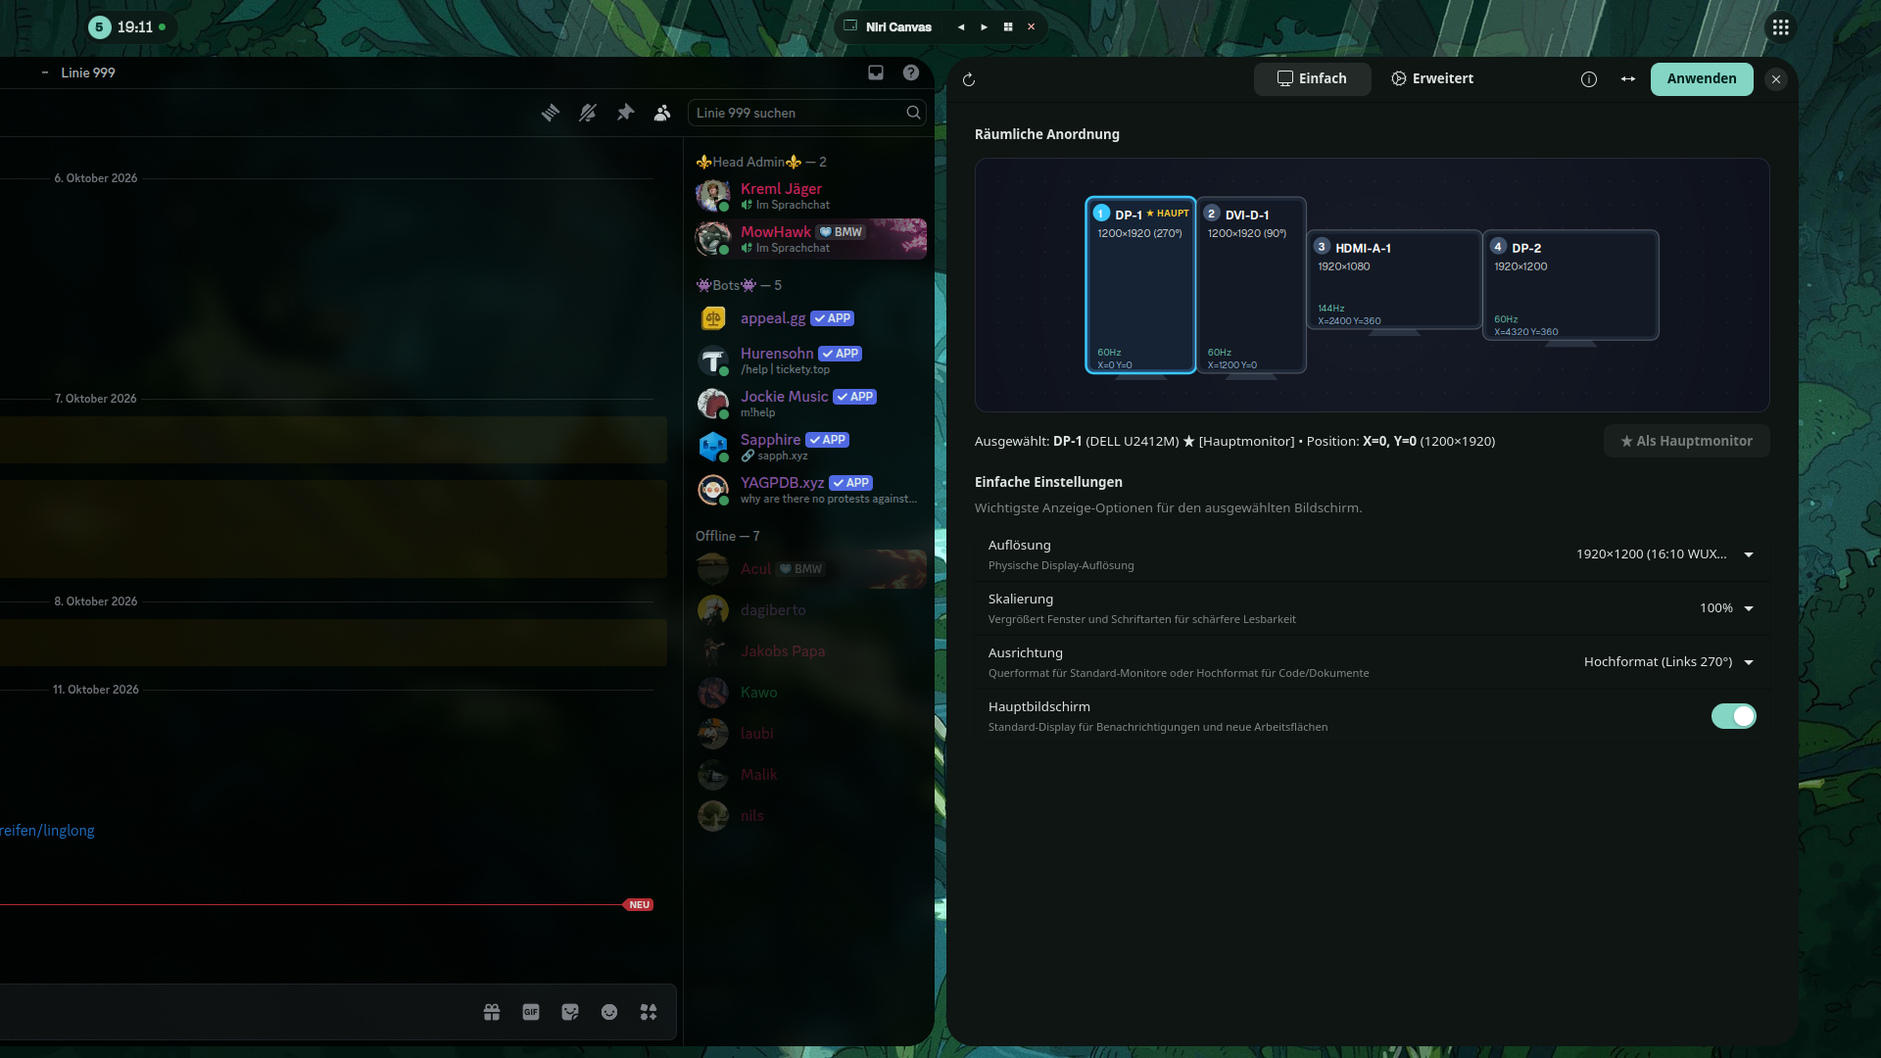
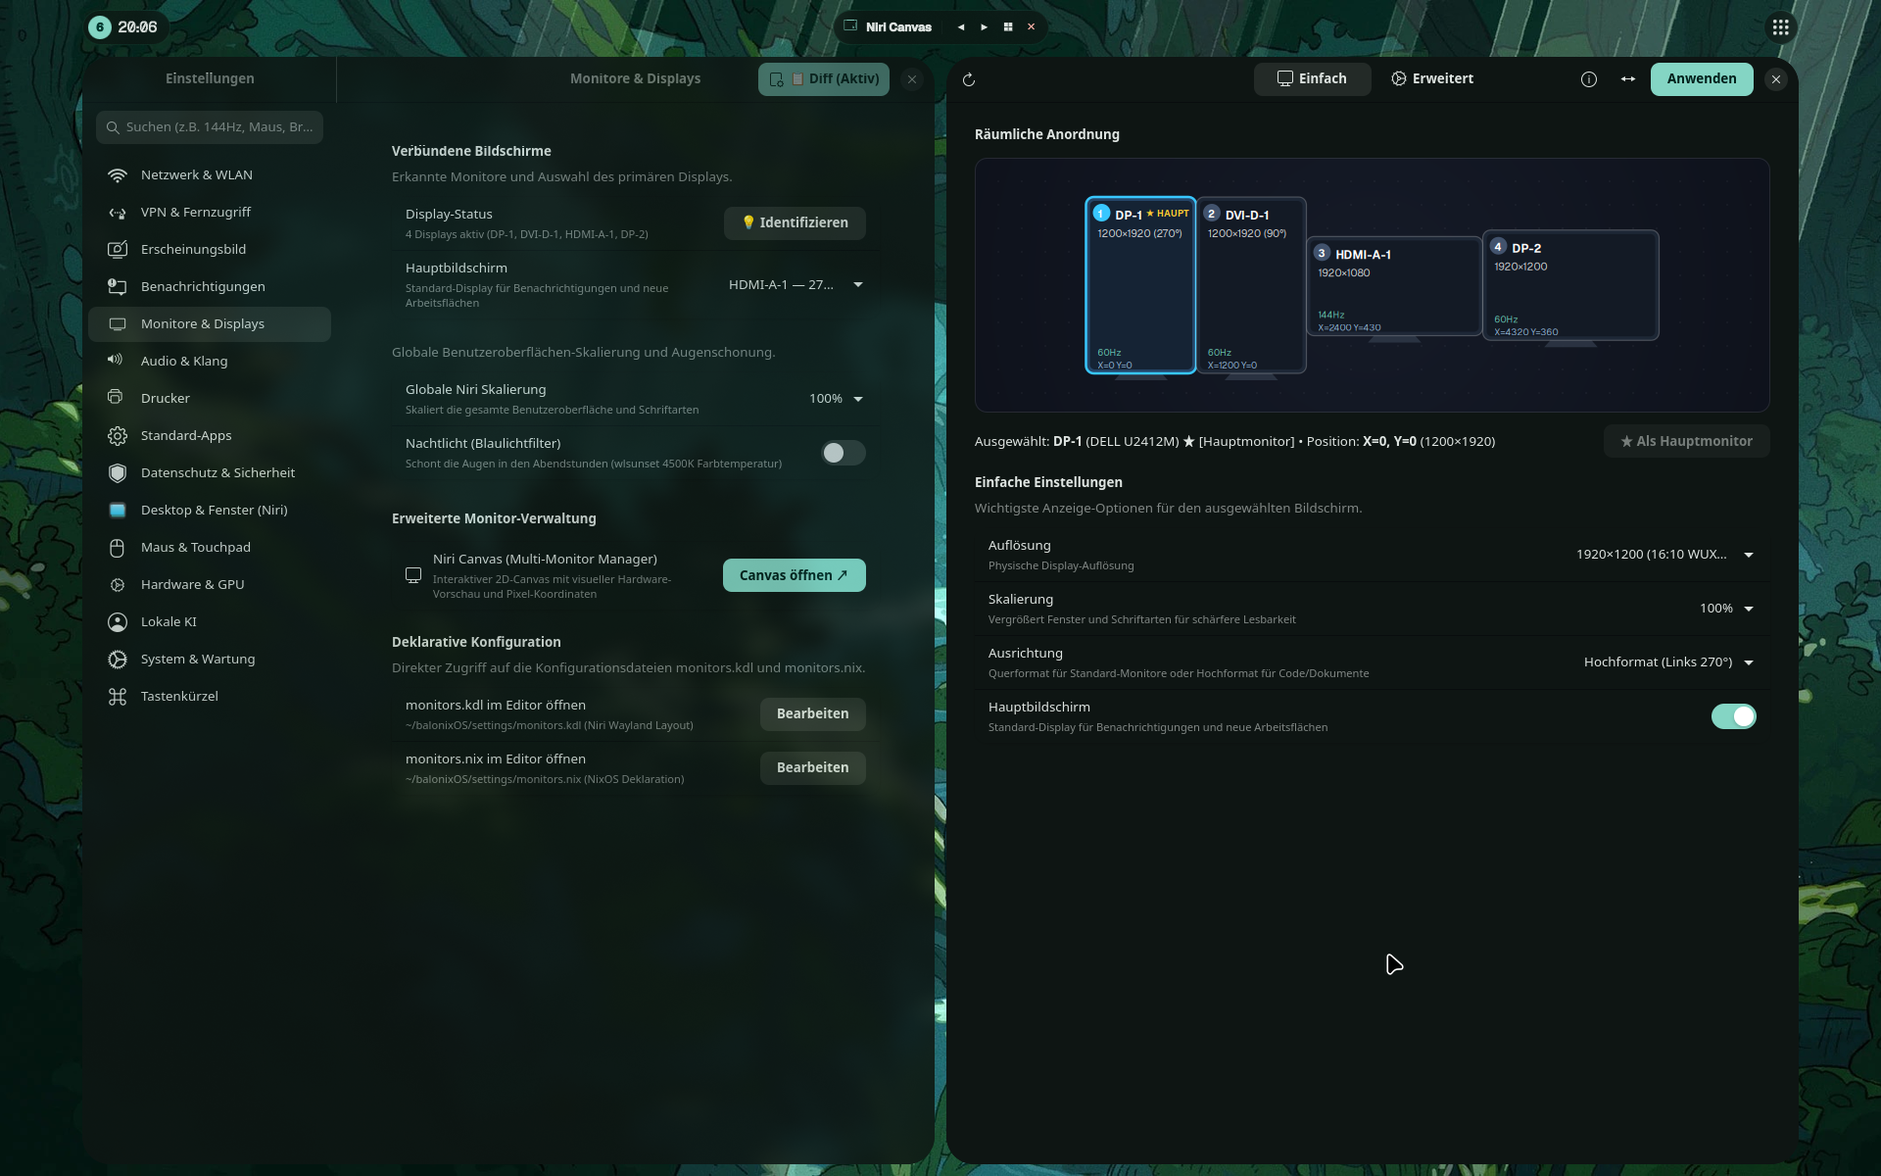
feat(i18n): localize entire UI, CLI, and canvas to English; update screenshot

diff --git a/src/niri_canvas/ui.py b/src/niri_canvas/ui.py
@@ -56,24 +56,24 @@ class NiriCanvasWindow(Adw.ApplicationWindow):
 
         # Left Header: Refresh
         self.refresh_btn = Gtk.Button.new_from_icon_name("view-refresh-symbolic")
-        self.refresh_btn.set_tooltip_text("Hardware neu einlesen & Änderungen verwerfen")
+        self.refresh_btn.set_tooltip_text("Reload hardware & discard changes")
         self.refresh_btn.connect("clicked", self.on_refresh_clicked)
         header.pack_start(self.refresh_btn)
 
         # Right Header: Apply (suggested-action), Align, Identify
-        self.apply_btn = Gtk.Button(label="Anwenden")
-        self.apply_btn.set_tooltip_text("Layout in KDL speichern & Niri live aktualisieren")
+        self.apply_btn = Gtk.Button(label="Apply")
+        self.apply_btn.set_tooltip_text("Save layout to KDL & reload Niri live")
         self.apply_btn.add_css_class("suggested-action")
         self.apply_btn.connect("clicked", self.on_apply_clicked)
         header.pack_end(self.apply_btn)
 
         self.align_btn = Gtk.Button.new_from_icon_name("object-flip-horizontal-symbolic")
-        self.align_btn.set_tooltip_text("Monitore automatisch lückenlos anordnen")
+        self.align_btn.set_tooltip_text("Auto-align monitors side-by-side")
         self.align_btn.connect("clicked", self.on_align_clicked)
         header.pack_end(self.align_btn)
 
         self.identify_btn = Gtk.Button.new_from_icon_name("dialog-information-symbolic")
-        self.identify_btn.set_tooltip_text("Displays identifizieren (Nummern & Ports anzeigen)")
+        self.identify_btn.set_tooltip_text("Identify displays (show OSD popups)")
         self.identify_btn.connect("clicked", self.on_identify_clicked)
         header.pack_end(self.identify_btn)
 
@@ -101,8 +101,8 @@ class NiriCanvasWindow(Adw.ApplicationWindow):
 
         # ── 1. Interactive Canvas Group ───────────────────────────────────────
         canvas_group = Adw.PreferencesGroup()
-        canvas_group.set_title("Räumliche Anordnung")
-        canvas_group.set_description("Monitore per Drag & Drop verschieben. Kanten docken magnetisch aneinander an.")
+        canvas_group.set_title("Spatial Arrangement")
+        canvas_group.set_description("Drag & drop displays to arrange. Edges snap magnetically to prevent gaps.")
 
         canvas_card = Gtk.Box(orientation=Gtk.Orientation.VERTICAL, spacing=8)
         self.canvas = MonitorCanvas(
@@ -115,12 +115,12 @@ class NiriCanvasWindow(Adw.ApplicationWindow):
         sub_bar = Gtk.Box(orientation=Gtk.Orientation.HORIZONTAL, spacing=10)
         sub_bar.set_margin_top(4)
 
-        self.selection_label = Gtk.Label(label="Wähle einen Monitor auf dem Canvas...", xalign=0)
+        self.selection_label = Gtk.Label(label="Select a display on the canvas...", xalign=0)
         self.selection_label.set_hexpand(True)
         sub_bar.append(self.selection_label)
 
-        self.primary_btn = Gtk.Button(label="★ Als Hauptmonitor")
-        self.primary_btn.set_tooltip_text("Ausgewählten Monitor als Hauptbildschirm markieren")
+        self.primary_btn = Gtk.Button(label="★ Set as Primary")
+        self.primary_btn.set_tooltip_text("Set selected display as primary monitor")
         self.primary_btn.connect("clicked", self.on_make_primary_clicked)
         sub_bar.append(self.primary_btn)
 
@@ -130,46 +130,46 @@ class NiriCanvasWindow(Adw.ApplicationWindow):
 
         # ── 2. Simple Controls Group ──────────────────────────────────────────
         self.simple_group = Adw.PreferencesGroup()
-        self.simple_group.set_title("Einfache Einstellungen")
-        self.simple_group.set_description("Wichtigste Anzeige-Optionen für den ausgewählten Bildschirm.")
+        self.simple_group.set_title("Display Settings")
+        self.simple_group.set_description("Essential display options for the selected screen.")
 
         # Auflösung (Sauber gruppiert nach gängigen Auflösungen)
         self.res_row = Adw.ComboRow()
-        self.res_row.set_title("Auflösung")
-        self.res_row.set_subtitle("Physische Display-Auflösung")
+        self.res_row.set_title("Resolution")
+        self.res_row.set_subtitle("Physical display resolution")
         self.res_row.connect("notify::selected", self.on_simple_res_selected)
         self.simple_group.add(self.res_row)
 
         # Skalierung
         self.scale_options = ["100%", "125%", "150%", "175%", "200%"]
         self.scale_row = Adw.ComboRow()
-        self.scale_row.set_title("Skalierung")
-        self.scale_row.set_subtitle("Vergrößert Fenster und Schriftarten für schärfere Lesbarkeit")
+        self.scale_row.set_title("Scaling")
+        self.scale_row.set_subtitle("Scale window contents and text for sharper readability")
         self.scale_row.set_model(Gtk.StringList.new(self.scale_options))
         self.scale_row.connect("notify::selected", self.on_scale_selected)
         self.simple_group.add(self.scale_row)
 
         # Ausrichtung (Einfach: Querformat vs. Hochformat)
-        self.orient_options = ["Querformat (Normal 0°)", "Hochformat (Rechts 90°)", "Hochformat (Links 270°)"]
+        self.orient_options = ["Landscape (Normal 0°)", "Portrait (Right 90°)", "Portrait (Left 270°)"]
         self.orient_values = ["Normal", "90", "270"]
         self.orient_row = Adw.ComboRow()
-        self.orient_row.set_title("Ausrichtung")
-        self.orient_row.set_subtitle("Querformat für Standard-Monitore oder Hochformat für Code/Dokumente")
+        self.orient_row.set_title("Orientation")
+        self.orient_row.set_subtitle("Landscape for standard monitors or portrait for code and documents")
         self.orient_row.set_model(Gtk.StringList.new(self.orient_options))
         self.orient_row.connect("notify::selected", self.on_orient_selected)
         self.simple_group.add(self.orient_row)
 
         # Hauptmonitor-Schalter
         self.primary_switch = Adw.SwitchRow()
-        self.primary_switch.set_title("Hauptbildschirm")
-        self.primary_switch.set_subtitle("Standard-Display für Benachrichtigungen und neue Arbeitsflächen")
+        self.primary_switch.set_title("Primary Display")
+        self.primary_switch.set_subtitle("Default display for notifications and new workspaces")
         self.primary_switch.connect("notify::active", self.on_primary_switch_toggled)
         self.simple_group.add(self.primary_switch)
 
         simple_content.append(self.simple_group)
 
         # Add Tab 1 to ViewStack
-        page_simple = self.view_stack.add_titled(scrolled_simple, "simple", "Einfach")
+        page_simple = self.view_stack.add_titled(scrolled_simple, "simple", "Simple")
         page_simple.set_icon_name("video-display-symbolic")
 
         # ══════════════════════════════════════════════════════════════════════
@@ -193,12 +193,12 @@ class NiriCanvasWindow(Adw.ApplicationWindow):
 
         # ── 1. Exakte Geometrie & Positionierung ──────────────────────────────
         geo_group = Adw.PreferencesGroup()
-        geo_group.set_title("Pixel-genaue Platzierung")
-        geo_group.set_description("Direkte Koordinaten-Steuerung im logischen Wayland-Desktop-Raum.")
+        geo_group.set_title("Pixel-Perfect Coordinates")
+        geo_group.set_description("Direct coordinate placement in logical Wayland desktop space.")
 
         pos_row = Adw.ActionRow()
-        pos_row.set_title("Logische Koordinaten (X / Y)")
-        pos_row.set_subtitle("Manuelle Feinjustierung verhindert unabsichtliche Lücken oder Kanten-Sprünge")
+        pos_row.set_title("Logical Position (X / Y)")
+        pos_row.set_subtitle("Manual fine-tuning prevents gaps or cursor trapping")
 
         coords_box = Gtk.Box(orientation=Gtk.Orientation.HORIZONTAL, spacing=8)
         coords_box.set_valign(Gtk.Align.CENTER)
@@ -219,11 +219,11 @@ class NiriCanvasWindow(Adw.ApplicationWindow):
         geo_group.add(pos_row)
 
         # Erweiterte Drehung (inklusive 180° Überkopf)
-        self.adv_tf_options = ["Normal (0°)", "90° (Rechts)", "180° (Überkopf)", "270° (Links)"]
+        self.adv_tf_options = ["Normal (0°)", "90° (Right)", "180° (Inverted)", "270° (Left)"]
         self.adv_tf_values = ["Normal", "90", "180", "270"]
         self.adv_tf_row = Adw.ComboRow()
-        self.adv_tf_row.set_title("Erweiterte Rotation & Invertierung")
-        self.adv_tf_row.set_subtitle("Ermöglicht auch 180° Überkopf-Montage für Monitorarme")
+        self.adv_tf_row.set_title("Advanced Rotation & Invert")
+        self.adv_tf_row.set_subtitle("Supports 180° ceiling or custom arm mount orientation")
         self.adv_tf_row.set_model(Gtk.StringList.new(self.adv_tf_options))
         self.adv_tf_row.connect("notify::selected", self.on_adv_tf_selected)
         geo_group.add(self.adv_tf_row)
@@ -232,18 +232,18 @@ class NiriCanvasWindow(Adw.ApplicationWindow):
 
         # ── 2. Detaillierte Hardware-Modi & Hertz ─────────────────────────────
         rate_group = Adw.PreferencesGroup()
-        rate_group.set_title("Exakte Bildwiederholraten & Timings")
-        rate_group.set_description("Alle nativen Hardware-Modi inklusive Dezimal-Frequenzen.")
+        rate_group.set_title("Refresh Rates & Timings")
+        rate_group.set_description("Native hardware video modes including exact fractional refresh rates.")
 
         self.exact_mode_row = Adw.ComboRow()
-        self.exact_mode_row.set_title("Hardware-Timing Modus")
-        self.exact_mode_row.set_subtitle("Exakter Niri Mode-String mit Millihertz-Genauigkeit")
+        self.exact_mode_row.set_title("Hardware Video Mode")
+        self.exact_mode_row.set_subtitle("Exact Niri mode string with millihertz precision")
         self.exact_mode_row.connect("notify::selected", self.on_exact_mode_selected)
         rate_group.add(self.exact_mode_row)
 
         # Hardware Info Row
         self.hw_info_row = Adw.ActionRow()
-        self.hw_info_row.set_title("Display-Hardware")
+        self.hw_info_row.set_title("Hardware Details")
         self.hw_info_badge = Gtk.Label(label="--", css_classes=["caption", "dim-label"])
         self.hw_info_row.add_suffix(self.hw_info_badge)
         rate_group.add(self.hw_info_row)
@@ -252,14 +252,14 @@ class NiriCanvasWindow(Adw.ApplicationWindow):
 
         # ── 3. Niri KDL-Konfiguration & Quelldatei ─────────────────────────────
         kdl_group = Adw.PreferencesGroup()
-        kdl_group.set_title("Deklarative Niri KDL-Konfiguration")
+        kdl_group.set_title("Declarative Niri KDL Configuration")
         target_path = find_config_file(self.custom_config)
-        kdl_group.set_description(f"Ziel-Datei: {target_path}")
+        kdl_group.set_description(f"Target file: {target_path}")
 
         open_row = Adw.ActionRow()
-        open_row.set_title("Konfigurationsdatei im Texteditor öffnen")
+        open_row.set_title("Open configuration file in editor")
         open_row.set_subtitle(target_path)
-        open_btn = Gtk.Button(label="Öffnen")
+        open_btn = Gtk.Button(label="Open")
         open_btn.set_valign(Gtk.Align.CENTER)
         open_btn.connect("clicked", lambda b: run_cmd(f"xdg-open {target_path} &"))
         open_row.add_suffix(open_btn)
@@ -267,8 +267,8 @@ class NiriCanvasWindow(Adw.ApplicationWindow):
 
         # Live KDL Code Preview Frame
         preview_group = Adw.PreferencesGroup()
-        preview_group.set_title("Generierte KDL-Vorschau")
-        preview_group.set_description("Aktuelle Monitor-Konfiguration in Niri KDL-Syntax")
+        preview_group.set_title("Live KDL Preview")
+        preview_group.set_description("Declarative monitor configuration formatted in Niri KDL syntax")
         self.kdl_preview_view = Gtk.TextView()
         self.kdl_preview_view.set_editable(False)
         self.kdl_preview_view.set_monospace(True)
@@ -285,7 +285,7 @@ class NiriCanvasWindow(Adw.ApplicationWindow):
         adv_content.append(preview_group)
 
         # Add Tab 2 to ViewStack
-        page_adv = self.view_stack.add_titled(scrolled_adv, "advanced", "Erweitert")
+        page_adv = self.view_stack.add_titled(scrolled_adv, "advanced", "Advanced")
         page_adv.set_icon_name("preferences-other-symbolic")
 
         # Initial Load
@@ -312,22 +312,22 @@ class NiriCanvasWindow(Adw.ApplicationWindow):
 
     def on_refresh_clicked(self, btn):
         self.load_from_system()
-        self.show_toast("Hardware-Status neu eingelesen.")
+        self.show_toast("Hardware reloaded from Niri.")
 
     def on_identify_clicked(self, btn):
         identify_monitors(self.canvas.monitors)
-        self.show_toast("Displays werden identifiziert (OSD-Popups gesendet).")
+        self.show_toast("Identifying displays (OSD overlays dispatched).")
 
     def on_align_clicked(self, btn):
         self.canvas.auto_align()
         self._update_kdl_preview()
-        self.show_toast("Monitore automatisch nebeneinander angeordnet.")
+        self.show_toast("Displays aligned horizontally.")
 
     def on_make_primary_clicked(self, btn):
         if self.canvas.selected_port:
             self.canvas.set_primary_monitor(self.canvas.selected_port)
             self._update_kdl_preview()
-            self.show_toast(f"{self.canvas.selected_port} als Hauptmonitor festgelegt.")
+            self.show_toast(f"Set {self.canvas.selected_port} as primary display.")
 
     def on_primary_switch_toggled(self, row, param):
         if self._updating:
@@ -365,10 +365,10 @@ class NiriCanvasWindow(Adw.ApplicationWindow):
         w = m.get("width", 0)
         h = m.get("height", 0)
         is_prim = m.get("is_primary", False)
-        prim_badge = " ★ [Hauptmonitor]" if is_prim else ""
+        prim_badge = " ★ [Primary]" if is_prim else ""
 
         self.selection_label.set_markup(
-            f"Ausgewählt: <b>{port}</b> ({model}){prim_badge} • Position: <b>X={x}, Y={y}</b> ({w}×{h})"
+            f"Selected: <b>{port}</b> ({model}){prim_badge} • Position: <b>X={x}, Y={y}</b> ({w}×{h})"
         )
         self.primary_btn.set_sensitive(not is_prim)
         self.primary_switch.set_active(is_prim)

diff --git a/src/niri_canvas/main.py b/src/niri_canvas/main.py
@@ -26,7 +26,7 @@ VERSION = "1.0.0"
 def run_cli_status():
     monitors = get_monitors()
     if not monitors:
-        print("Keine aktiven Monitore in Niri gefunden.")
+        print("No active monitors found in Niri.")
         return 1
 
     print("\n" + "=" * 95)
@@ -37,7 +37,7 @@ def run_cli_status():
     print(header)
     print("-" * 95)
     for m in monitors:
-        prim = "★ JA" if m.get("is_primary") else "NEIN"
+        prim = "★ YES" if m.get("is_primary") else "NO"
         port = m.get("port", "")
         model = m.get("model", "")[:18]
         mode = m.get("mode_label", m.get("mode", ""))[:20]
@@ -52,7 +52,7 @@ def run_cli_status():
 def run_cli_align(config_path=None):
     monitors = get_monitors()
     if not monitors:
-        print("Keine Monitore zum Anordnen gefunden.")
+        print("No monitors found to align.")
         return 1
     aligned = auto_align_monitors(monitors)
     success, msg = save_monitors_layout(aligned, config_path)
@@ -62,7 +62,7 @@ def run_cli_align(config_path=None):
 
 def run_cli_identify():
     identify_monitors()
-    print("Identifizierungs-Meldungen an alle Displays gesendet.")
+    print("Identification notifications dispatched to all displays.")
     return 0
 
 
@@ -87,13 +87,13 @@ def main():
         description="Niri Canvas — Visual Multi-Monitor Manager for Niri Wayland Compositor"
     )
     parser.add_argument("-v", "--version", action="version", version=f"%(prog)s {VERSION}")
-    parser.add_argument("-c", "--config", type=str, help="Pfad zu einer benutzerdefinierten KDL-Konfigurationsdatei")
+    parser.add_argument("-c", "--config", type=str, help="Path to a custom KDL configuration file")
 
-    subparsers = parser.add_subparsers(dest="command", help="Optionale CLI-Befehle")
+    subparsers = parser.add_subparsers(dest="command", help="Optional CLI subcommands")
 
-    subparsers.add_parser("status", help="Zeigt aktuelle Monitore und Koordinaten in der Konsole an")
-    subparsers.add_parser("align", help="Richtet alle Monitore automatisch lückenlos nebeneinander aus")
-    subparsers.add_parser("identify", help="Sendet visuelle Identifikations-Overlays an alle Bildschirme")
+    subparsers.add_parser("status", help="Print connected displays and layout coordinates to stdout")
+    subparsers.add_parser("align", help="Automatically arrange all displays horizontally side-by-side")
+    subparsers.add_parser("identify", help="Display visual identification overlays on all monitors")
 
     args, unknown = parser.parse_known_args()
 

diff --git a/src/niri_canvas/backend.py b/src/niri_canvas/backend.py
@@ -96,7 +96,7 @@ def ensure_include_in_niri_config(monitors_kdl_path: str) -> Optional[str]:
                 f.write(f'// Niri Wayland Compositor Configuration\ninclude "{rel_path}"\n')
             return None
         except Exception as e:
-            return f"Konnte {niri_config} nicht anlegen: {e}"
+            return f"Could not create {niri_config}: {e}"
 
     # Case 2: Config is a read-only symlink to the Nix store (e.g. Home-Manager)
     if os.path.islink(niri_config) and "/nix/store" in os.path.realpath(niri_config):
@@ -112,7 +112,7 @@ def ensure_include_in_niri_config(monitors_kdl_path: str) -> Optional[str]:
                 return None
         except Exception:
             pass
-        return "Hinweis: Deine config.kdl ist schreibgeschützt (Nix-Store). Trage bitte include \"monitors.kdl\" in deiner Nix-Konfiguration ein."
+        return "Notice: Your config.kdl is read-only (Nix store). Please add include \"monitors.kdl\" to your Nix configuration."
 
     # Case 3: Regular writable config.kdl
     try:
@@ -137,7 +137,7 @@ def ensure_include_in_niri_config(monitors_kdl_path: str) -> Optional[str]:
             f.write(include_header + content)
         return None
     except Exception as e:
-        return f"Hinweis: Konnte include nicht automatisch in config.kdl eintragen ({e}). Bitte manuell include \"monitors.kdl\" ergänzen."
+        return f"Notice: Could not automatically inject include into config.kdl ({e}). Please manually add include \"monitors.kdl\"."
 
 
 def get_monitors() -> List[Dict[str, Any]]:
@@ -276,7 +276,7 @@ def save_monitors_layout(monitors_data: List[Dict[str, Any]], custom_path: Optio
     Returns (success, message).
     """
     if not monitors_data:
-        return False, "Keine Monitore zum Speichern vorhanden."
+        return False, "No monitors to save."
 
     target_file = find_config_file(custom_path)
     os.makedirs(os.path.dirname(target_file), exist_ok=True)
@@ -385,7 +385,7 @@ def save_monitors_layout(monitors_data: List[Dict[str, Any]], custom_path: Optio
 
     # Hot reload Niri
     run_cmd("niri msg action load-config-file")
-    msg = f"Erfolgreich in {target_file} gespeichert und Niri neu geladen!"
+    msg = f"Successfully saved to {target_file} and reloaded Niri!"
     if include_notice:
         msg += f"\n{include_notice}"
     return True, msg

diff --git a/src/niri_canvas/canvas.py b/src/niri_canvas/canvas.py
@@ -302,13 +302,13 @@ class MonitorCanvas(Gtk.DrawingArea):
         cr.restore()
 
         if not self.monitors:
-            cr.save()
             layout = PangoCairo.create_layout(cr)
-            layout.set_text("Warte auf Monitor-Erkennung von Niri...", -1)
-            cr.set_source_rgba(1.0, 1.0, 1.0, 0.5)
-            cr.move_to(width / 2.0 - 130, height / 2.0 - 10)
+            layout.set_text("Waiting for display detection from Niri...", -1)
+            font_desc = Pango.FontDescription.from_string("Sans 14")
+            layout.set_font_description(font_desc)
+            cr.set_source_rgba(0.7, 0.7, 0.7, 1.0)
+            cr.move_to(20, 30)
             PangoCairo.show_layout(cr, layout)
-            cr.restore()
             return
 
         scale, off_x, off_y = self.get_transform_metrics(width, height)
@@ -427,9 +427,9 @@ class MonitorCanvas(Gtk.DrawingArea):
             if is_prim:
                 font_badge = Pango.FontDescription.from_string("Sans Bold 7")
                 pango_layout.set_font_description(font_badge)
-                pango_layout.set_text("★ HAUPT", -1)
+                pango_layout.set_text("★ PRIMARY", -1)
                 cr.set_source_rgb(1.0, 0.80, 0.20)  # Amber gold
-                cr.move_to(bx + max(28, bw - 52), by + 10)
+                cr.move_to(bx + max(28, bw - 60), by + 10)
                 PangoCairo.show_layout(cr, pango_layout)
 
             # Port Name

diff --git a/README.md b/README.md
@@ -16,7 +16,7 @@
 ---
 
 <div align="center">
-  <img src="assets/niri-canvas-hdmi.png" width="880" alt="Niri Canvas Screenshot" style="border-radius: 12px; box-shadow: 0 8px 24px rgba(0,0,0,0.5);" />
+  <img src="assets/screenshot.png" width="880" alt="Niri Canvas Screenshot" style="border-radius: 12px; box-shadow: 0 8px 24px rgba(0,0,0,0.5);" />
 </div>
 
 ---
